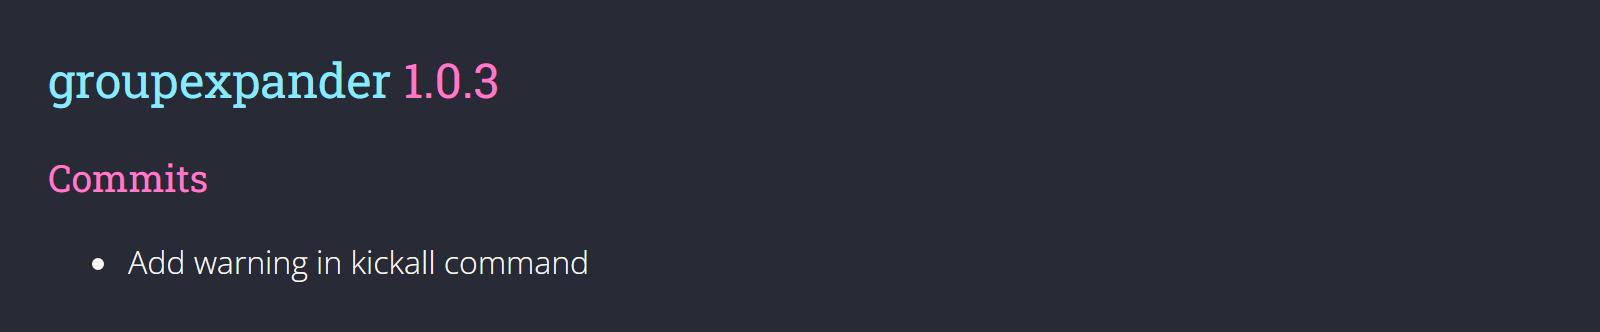
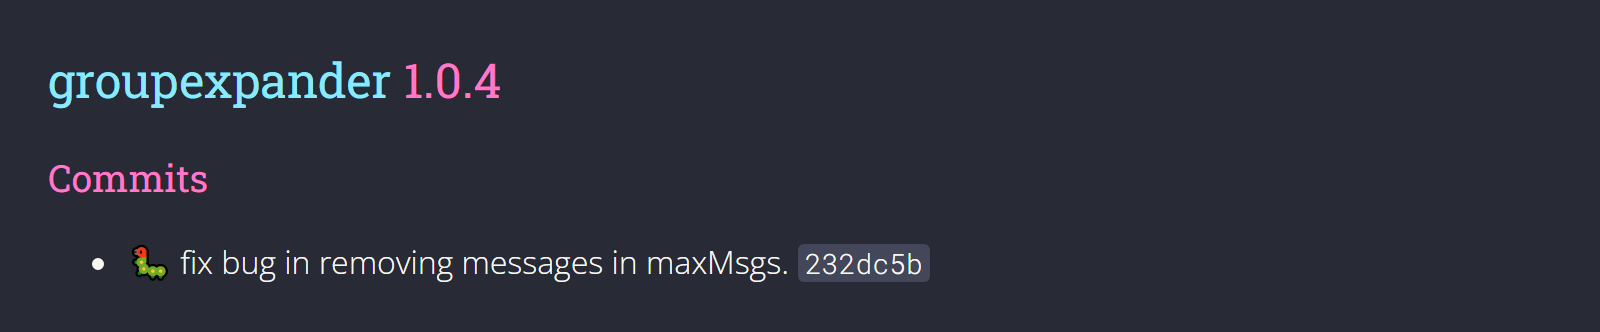
Release 1.0.4

Changed region(s): [[0.0625, 0.7229, 0.5938, 0.8735], [0.2812, 0.1807, 0.3125, 0.3012]]

diff --git a/CHANGELOG.md b/CHANGELOG.md
@@ -7,14 +7,24 @@ and this project adheres to [Semantic Versioning](https://semver.org/spec/v2.0.0
 
 Generated by [`auto-changelog`](https://github.com/CookPete/auto-changelog).
 
-## 1.0.3
+## [1.0.4](https://github.com/eyalmichon/group-expander/compare/1.0.3...1.0.4)
 
 
 
 
 ### Commits
 
-- Add warning in kickall command 
+- 🐛 fix bug in removing messages in maxMsgs. [`232dc5b`](https://github.com/eyalmichon/group-expander/commit/232dc5ba228a68698ae2147040298d51eb493a35)
+
+## [1.0.3](https://github.com/eyalmichon/group-expander/compare/1.0.2...1.0.3) - 2021-11-30
+
+
+
+
+### Commits
+
+- Release 1.0.3 [`c33e3ac`](https://github.com/eyalmichon/group-expander/commit/c33e3acae81f022176ed7b6db9028f8df3637735)
+- Add warning in kickall command [`e5ca0b3`](https://github.com/eyalmichon/group-expander/commit/e5ca0b3bd4d31af9f46fb17bb41b0415d210bbc9)
 
 ## 1.0.2 - 2021-11-29
 
@@ -23,8 +33,8 @@ Generated by [`auto-changelog`](https://github.com/CookPete/auto-changelog).
 
 ### Commits
 
-- Release %npm_config_addver% 
-- Release 1.0.2 
-- Add to-do list 
-- Add protection for kickall command. 
+- Release %npm_config_addver% [`96d865f`](https://github.com/eyalmichon/group-expander/commit/96d865fab32290b40c9d983431641c426a9c4b4a)
+- Release 1.0.2 [`8cb26e0`](https://github.com/eyalmichon/group-expander/commit/8cb26e0266814a25de4043105f488e885f2e9315)
+- Add to-do list [`7f2cb82`](https://github.com/eyalmichon/group-expander/commit/7f2cb82da4cf8335974fd564e7a0ec50e22acc69)
+- Add protection for kickall command. [`31671a5`](https://github.com/eyalmichon/group-expander/commit/31671a52e8defb6e7e9ad4603335e72468917d8e)
 
